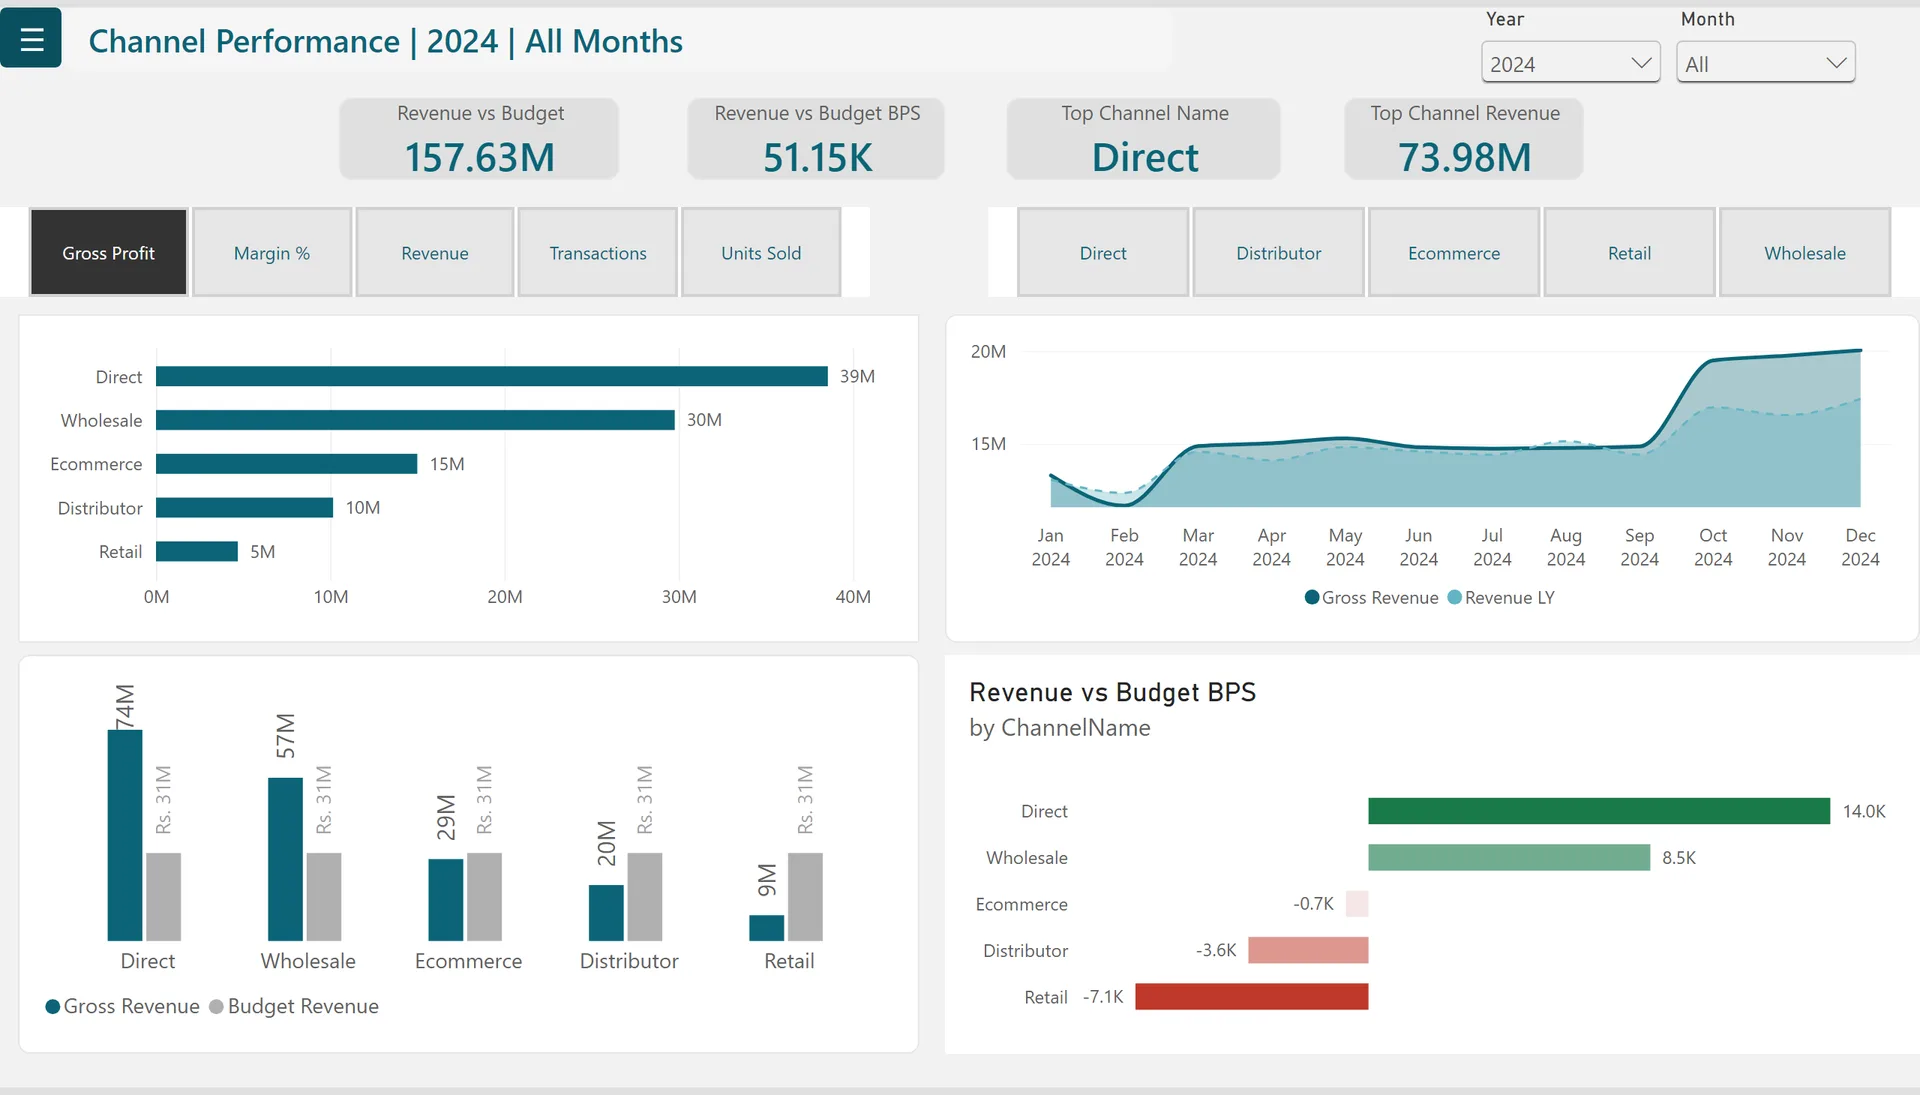
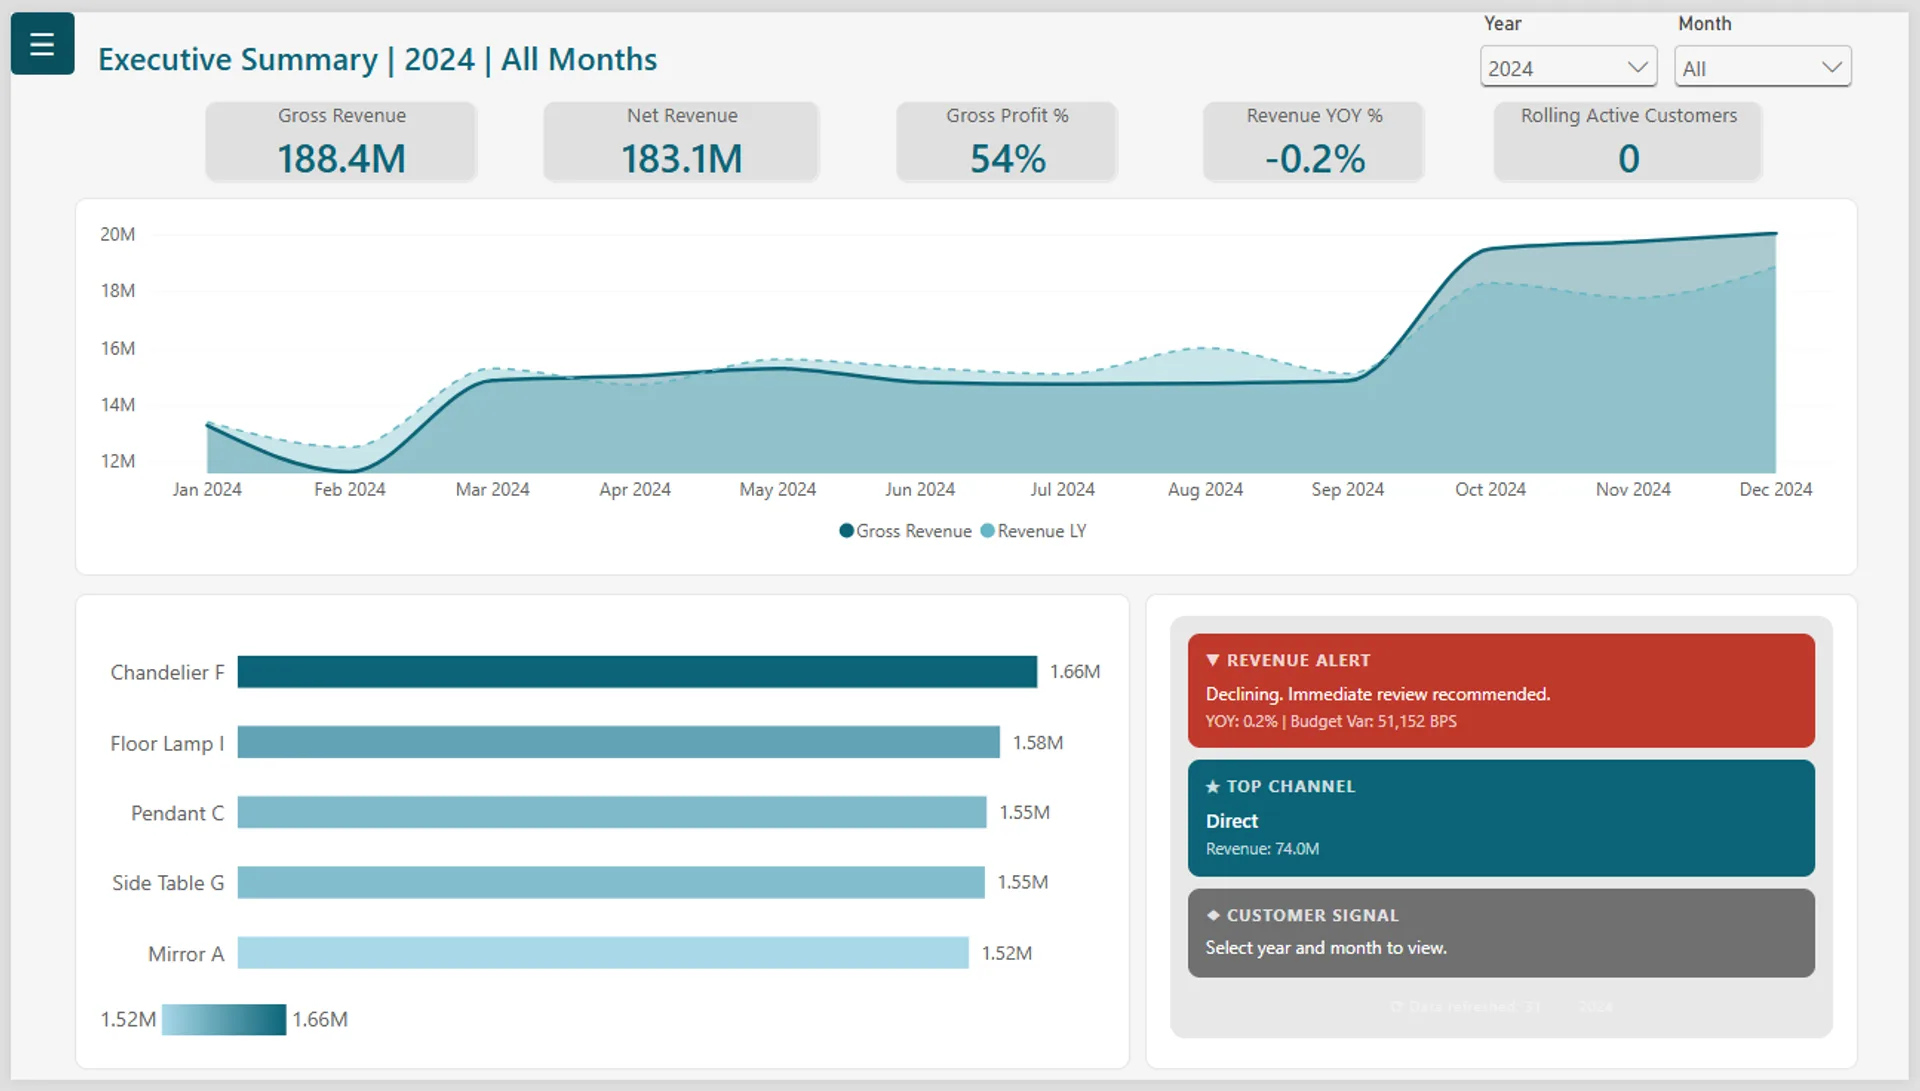
Manufacturing sales analytics: new Executive Summary page 1 (also the cover), hidden-navigation highlight on the menu button, captions under small screens stay readable
Claude-Session: https://claude.ai/code/session_01LG9RihfndfJYJETmS6yUSm

diff --git a/site/src/lib/markdown.ts b/site/src/lib/markdown.ts
@@ -12,7 +12,7 @@ export const highlightCode = (code: string, lang = 'dax') => {
 export interface Shot { src: string; title: string; caption: string; alt?: string; w: number; h: number }
 let shotList: Shot[] = [];
 const esc = (v: string) => v.replace(/&/g, '&amp;').replace(/"/g, '&quot;').replace(/</g, '&lt;').replace(/>/g, '&gt;');
-export const shotFigure = (s: Shot) => `<figure class="shot" style="max-width:min(100%,${s.w}px)"><button type="button" data-lightbox-index="0" data-full="${esc(s.src)}" data-title="${esc(s.title)}" data-caption="${esc(s.caption)}" data-cursor="view" aria-label="Open ${esc(s.title)} larger"><img src="${esc(s.src)}" width="${s.w}" height="${s.h}" alt="${esc(s.alt || s.title)}" loading="lazy" decoding="async"></button><figcaption><strong>${esc(s.title)}</strong><span>${esc(s.caption)}</span></figcaption></figure>`;
+export const shotFigure = (s: Shot) => `<figure class="shot"><button style="max-width:min(100%,${s.w}px)" type="button" data-lightbox-index="0" data-full="${esc(s.src)}" data-title="${esc(s.title)}" data-caption="${esc(s.caption)}" data-cursor="view" aria-label="Open ${esc(s.title)} larger"><img src="${esc(s.src)}" width="${s.w}" height="${s.h}" alt="${esc(s.alt || s.title)}" loading="lazy" decoding="async"></button><figcaption><strong>${esc(s.title)}</strong><span>${esc(s.caption)}</span></figcaption></figure>`;
 
 const marked = new Marked({
   gfm: true,
